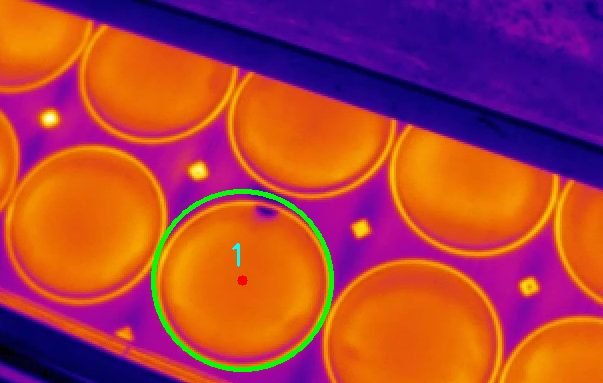
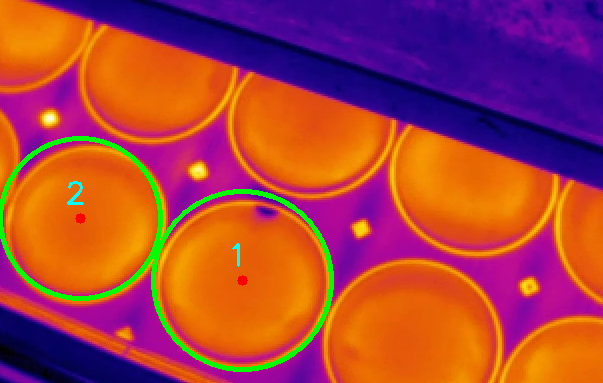
All circles detected correctly + intermediate results

diff --git a/batch_processor.py b/batch_processor.py
@@ -83,6 +83,8 @@ class ImprovedCircleDetector:
         
         # Optional: visualize all masks
         if show:
+            if not Path('Results/masks').exists():
+                Path('Results/masks').mkdir(parents=True, exist_ok=True)
             fig, axes = plt.subplots(2, 3, figsize=(18, 12))
             
             axes[0, 0].imshow(hsv_mask, cmap='gray')
@@ -111,7 +113,9 @@ class ImprovedCircleDetector:
             axes[1, 2].axis('off')
             
             plt.tight_layout()
-            plt.show()
+            plt.savefig(Path('Results/masks') / f"roi_masks_{Path(self.image_path).name}")
+            plt.close()
+            print(f"  Saved ROI mask visualizations to: Results/masks/roi_masks_{Path(self.image_path).name}")
 
         return combined_mask
 
@@ -120,7 +124,7 @@ class ImprovedCircleDetector:
         return self.define_ROI_thermal(show)
 
 
-    def is_circle_complete(self, x, y, radius, mask, margin=10):
+    def is_circle_complete(self, x, y, radius, mask, margin=-10):
         """
         Check if a circle is completely within the image bounds.
 
@@ -151,7 +155,9 @@ class ImprovedCircleDetector:
         intersection_area = cv2.countNonZero(intersection)
         if intersection_area < circle_area * 0.95:  # At least 95% within ROI
             print(f"Circle at ({x}, {y}) with radius {radius} rejected: insufficient ROI coverage.")
-            # show rejected circle and intersection using matplotlib
+            # save rejected circle and intersection using matplotlib
+            if not Path('Results/rejected_circles').exists():
+                Path('Results/rejected_circles').mkdir(parents=True, exist_ok=True)
             temp_result = self.result.copy()
             cv2.circle(temp_result, (x, y), radius, (0, 0, 255), 3)
             fig, axes = plt.subplots(2, 2, figsize=(10, 10))
@@ -168,7 +174,9 @@ class ImprovedCircleDetector:
             axes[1, 1].set_title('Circle & ROI Intersection')
             axes[1, 1].axis('off')
             plt.tight_layout()
-            plt.show()
+            plt.savefig(Path('Results/rejected_circles') / f"rejected_circle_{x}_{y}_{radius}_{Path(self.image_path).name}")
+            plt.close()
+            print(f"  Saved rejected circle details to: Results/rejected_circles/rejected_circle_{x}_{y}_{radius}_{Path(self.image_path).name}")
             return False
 
         # # Check visual completeness: sample perimeter for continuity
@@ -302,7 +310,7 @@ class ImprovedCircleDetector:
         """
         enhanced = self.preprocess_thermal_image()
 
-        mask = self.define_ROI_thermal(show=False)
+        mask = self.define_ROI_thermal(show=True)
 
         # Use more strict Hough parameters
         circles = cv2.HoughCircles(
@@ -319,11 +327,18 @@ class ImprovedCircleDetector:
 
         if len(circles) > 0:
             # show detected circles before filtering on a copy of result image
+            # save it in Results/intermediate for reference
+            if not Path('Results/intermediate').exists():
+                Path('Results/intermediate').mkdir(parents=True, exist_ok=True)
+
             temp_result = self.result.copy()
             raw_circles = np.uint16(np.around(circles[0]))
             self.draw_circles(raw_circles, color=(255, 0, 0), thickness=3)
-            # display
-            self.visualize_results(raw_circles)
+
+            # save image
+            intermediate_path = Path('Results/intermediate') / f"raw_circles_{Path(self.image_path).name}"
+            cv2.imwrite(str(intermediate_path), self.result)
+            print(f"  Saved intermediate raw circles to: {intermediate_path}")
 
             # reset result image
             self.result = temp_result
@@ -473,7 +488,7 @@ def process_all_images(images_dir='Images', save=True):
 # Example usage
 if __name__ == "__main__":
     # Process single image with visualization
-    process_image('Images/image2.png', save=False, display=True)
+    # process_image('Images/image2.png', save=False, display=True)
 
     # Process all images
-    # process_all_images('Images', save=True)
+    process_all_images('Images', save=True)
